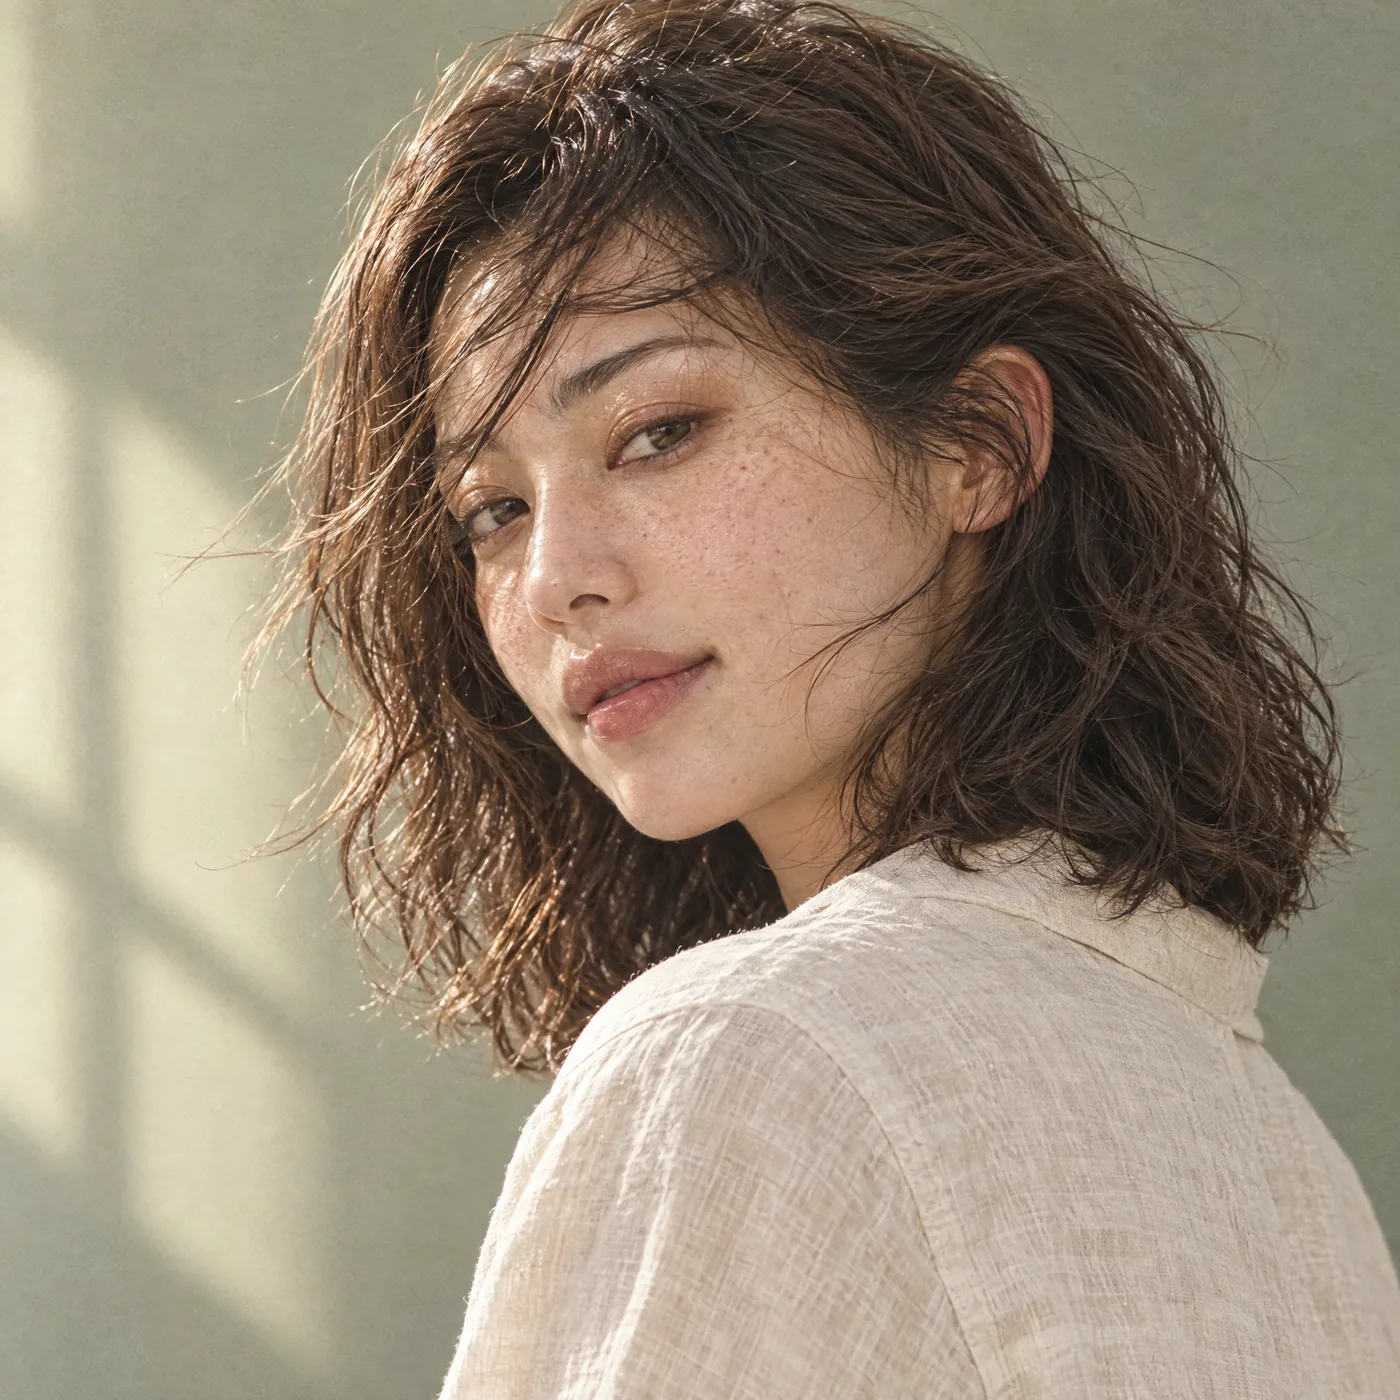
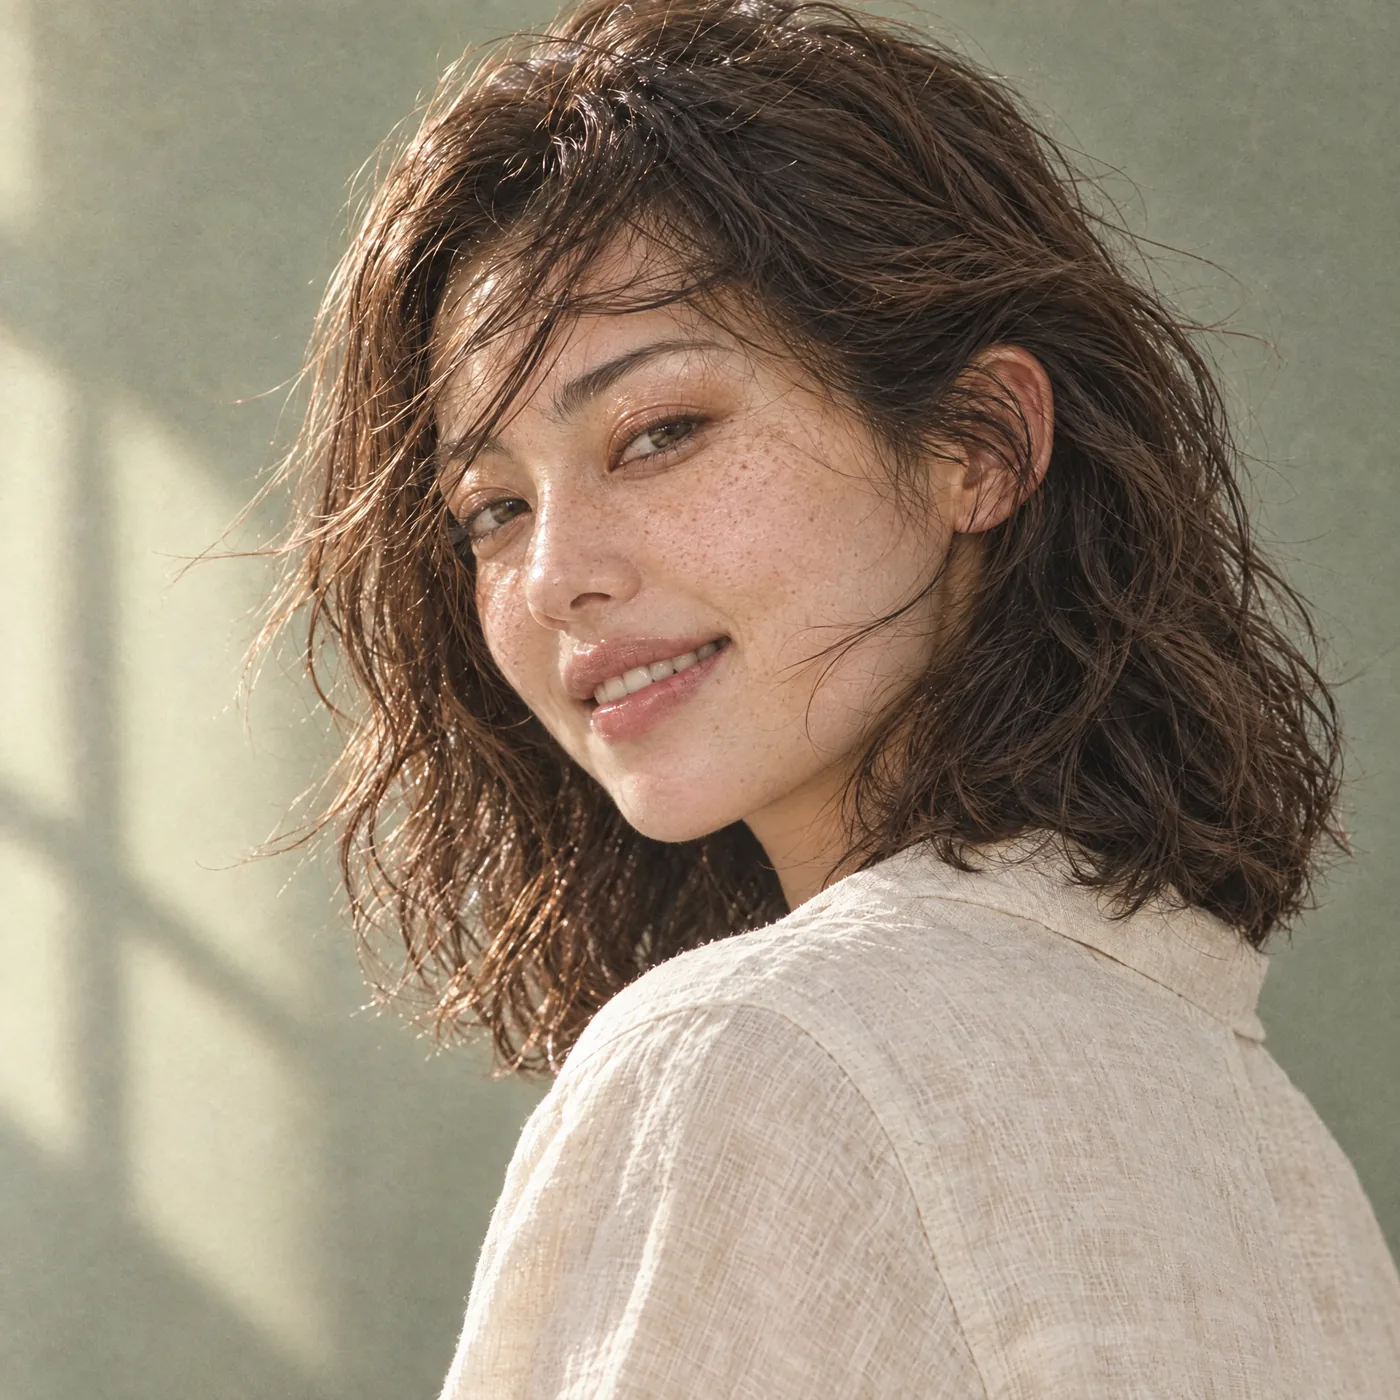
Add a nail close-up section and give the model a relaxed, warm expression
- New 'One drop on every nail' section: macro of a hand with a single
  clean drop falling onto the cuticle (EN/KO/JA copy)
- Hero cutout and over-the-shoulder portrait re-edited from cool/chic to
  a soft, relaxed smile; face, pose and outfit unchanged

Claude-Session: https://claude.ai/code/session_019wNfXHQ7e4JMNHAKsg49UT

diff --git a/kr/index.html b/kr/index.html
@@ -104,6 +104,16 @@ h1,h2,h3{margin:0;font-family:var(--sans);font-weight:400;line-height:1.2;letter
 .banner{margin:0;background:var(--night)}
 .banner img{width:100%;aspect-ratio:21/8;object-fit:cover;object-position:60% 40%}
 
+/* one drop — nail close-up */
+.drop{display:grid;grid-template-columns:1.35fr 1fr;gap:clamp(24px,4vw,64px);align-items:center;padding-block:clamp(16px,3vw,40px) clamp(40px,6vw,80px)}
+.drop img{width:100%;aspect-ratio:3/2;object-fit:cover;border-radius:18px}
+.drop-k{font-size:12px;font-weight:500;letter-spacing:.16em;text-transform:uppercase;color:var(--ink-soft);margin-bottom:12px}
+.drop h3{font-family:var(--display);font-weight:400;font-size:clamp(34px,3.8vw,54px);line-height:1;color:var(--olive);margin-bottom:16px}
+.drop p{font-size:16px;color:var(--ink-soft);max-width:26em}
+.drop .pill{margin-top:24px}
+:lang(ko) .drop-k,:lang(ja) .drop-k{letter-spacing:.02em}
+:lang(ko) .drop h3,:lang(ja) .drop h3{font-family:var(--sans);font-weight:500;font-size:clamp(26px,2.6vw,36px);letter-spacing:-.03em;line-height:1.3}
+
 /* checkerboard */
 .checker{padding-block:clamp(40px,6vw,80px)}
 .checker-grid{display:grid;grid-template-columns:1fr 1fr;border-radius:18px;overflow:hidden;background:var(--sage)}
@@ -247,6 +257,7 @@ footer{background:var(--night);color:#D8D4C8}
   .checker-grid .c2{order:4}
   .hero-meta span{display:none}
   .banner img{aspect-ratio:4/3}
+  .drop{grid-template-columns:1fr}
 }
 @media (max-width:420px){
   .facts{grid-template-columns:1fr}
@@ -472,6 +483,16 @@ if(!location.hash){window.scrollTo(0,0);addEventListener('load',()=>{window.scro
     </div>
   </section>
 
+  <section class="drop wrap" aria-labelledby="drop-h">
+    <img src="../images/nail-drop.webp" width="1600" height="1063" loading="lazy" alt="A drop of Glow Drop oil falling onto a nail from the glass dropper" data-i18n-alt="altDrop">
+    <div>
+      <p class="drop-k" data-i18n="dropK">For nails &amp; cuticles</p>
+      <h3 id="drop-h" data-i18n="dropT">One drop on every nail</h3>
+      <p data-i18n="dropD">Let a single drop fall right at the cuticle, then press it in. Cold-pressed olive and avocado sink in fast, leaving nails soft and glossy — never greasy.</p>
+      <a class="pill primary" href="#how" data-i18n="navCare">How to use</a>
+    </div>
+  </section>
+
   <section class="story" id="story" aria-labelledby="story-h">
     <div class="wrap story-grid">
       <div class="story-text">
@@ -655,7 +676,8 @@ if(!location.hash){window.scrollTo(0,0);addEventListener('load',()=>{window.scro
       chk1t:"한 방울, 꾹, 반짝", chk1d:"하루 한 방울이 손톱과 피부에 스며들어 내일까지 부드럽게 지켜 줍니다.",
       chk2t:"나만의 방식으로 힐링", chk2d:"아침이든 잠들기 전이든, 햇볕과 일에 지친 손을 위한 작은 쉼.",
       altModel:"리넨 셔츠를 입고 작은 글로우 드롭 병을 든 모델", altBanner:"나파 포도밭이 보이는 데이베드에서 쉬는 모델",
-      altEye:"어깨 너머로 돌아보는 모델", altCuticle:"햇살 드는 라운저에서 쉬는 모델"
+      altEye:"어깨 너머로 돌아보는 모델",
+      dropK:"손톱 &amp; 큐티클", dropT:"손톱마다 한 방울", dropD:"큐티클 위에 한 방울 똑 떨어뜨리고 지그시 눌러 주세요. 콜드프레스 올리브와 아보카도 오일이 빠르게 스며들어, 끈적임 없이 손톱을 부드럽고 윤기 있게 가꿉니다.", altDrop:"스포이트에서 손톱 위로 떨어지는 글로우 드롭 오일 한 방울", altCuticle:"햇살 드는 라운저에서 쉬는 모델"
     },
     ja: {
       announce:"世界中へお届け",
@@ -703,7 +725,8 @@ if(!location.hash){window.scrollTo(0,0);addEventListener('load',()=>{window.scro
       chk1t:"一滴、押して、輝く", chk1d:"1日1滴が爪と肌にとけこみ、明日までやわらかく守ります。",
       chk2t:"あなたらしく、癒す", chk2d:"朝でも寝る前でも。日差しや仕事で疲れた手のための、小さなひと休み。",
       altModel:"リネンシャツ姿で小さなGlow Dropを持つモデル", altBanner:"ナパのぶどう畑を望むデイベッドでくつろぐモデル",
-      altEye:"肩越しに振り返るモデル", altCuticle:"陽ざしの入るラウンジャーでくつろぐモデル"
+      altEye:"肩越しに振り返るモデル",
+      dropK:"爪 &amp; 甘皮", dropT:"爪に一滴ずつ", dropD:"甘皮の上に一滴落として、やさしく押し込むだけ。コールドプレスのオリーブとアボカドオイルがすっとなじみ、べたつかずに爪をやわらかくつややかに整えます。", altDrop:"スポイトから爪に落ちるGlow Dropオイルの一滴", altCuticle:"陽ざしの入るラウンジャーでくつろぐモデル"
     }
   };
   ['ko','ja'].forEach(function(l){ I18N[l].heroTitle = mk(I18N[l].heroTitle); I18N[l].storyTitle = mk(I18N[l].storyTitle); });

diff --git a/index.html b/index.html
@@ -102,6 +102,16 @@ h1,h2,h3{margin:0;font-family:var(--sans);font-weight:400;line-height:1.2;letter
 .banner{margin:0;background:var(--night)}
 .banner img{width:100%;aspect-ratio:21/8;object-fit:cover;object-position:60% 40%}
 
+/* one drop — nail close-up */
+.drop{display:grid;grid-template-columns:1.35fr 1fr;gap:clamp(24px,4vw,64px);align-items:center;padding-block:clamp(16px,3vw,40px) clamp(40px,6vw,80px)}
+.drop img{width:100%;aspect-ratio:3/2;object-fit:cover;border-radius:18px}
+.drop-k{font-size:12px;font-weight:500;letter-spacing:.16em;text-transform:uppercase;color:var(--ink-soft);margin-bottom:12px}
+.drop h3{font-family:var(--display);font-weight:400;font-size:clamp(34px,3.8vw,54px);line-height:1;color:var(--olive);margin-bottom:16px}
+.drop p{font-size:16px;color:var(--ink-soft);max-width:26em}
+.drop .pill{margin-top:24px}
+:lang(ko) .drop-k,:lang(ja) .drop-k{letter-spacing:.02em}
+:lang(ko) .drop h3,:lang(ja) .drop h3{font-family:var(--sans);font-weight:500;font-size:clamp(26px,2.6vw,36px);letter-spacing:-.03em;line-height:1.3}
+
 /* checkerboard */
 .checker{padding-block:clamp(40px,6vw,80px)}
 .checker-grid{display:grid;grid-template-columns:1fr 1fr;border-radius:18px;overflow:hidden;background:var(--sage)}
@@ -245,6 +255,7 @@ footer{background:var(--night);color:#D8D4C8}
   .checker-grid .c2{order:4}
   .hero-meta span{display:none}
   .banner img{aspect-ratio:4/3}
+  .drop{grid-template-columns:1fr}
 }
 @media (max-width:420px){
   .facts{grid-template-columns:1fr}
@@ -470,6 +481,16 @@ if(!location.hash){window.scrollTo(0,0);addEventListener('load',()=>{window.scro
     </div>
   </section>
 
+  <section class="drop wrap" aria-labelledby="drop-h">
+    <img src="images/nail-drop.webp" width="1600" height="1063" loading="lazy" alt="A drop of Glow Drop oil falling onto a nail from the glass dropper" data-i18n-alt="altDrop">
+    <div>
+      <p class="drop-k" data-i18n="dropK">For nails &amp; cuticles</p>
+      <h3 id="drop-h" data-i18n="dropT">One drop on every nail</h3>
+      <p data-i18n="dropD">Let a single drop fall right at the cuticle, then press it in. Cold-pressed olive and avocado sink in fast, leaving nails soft and glossy — never greasy.</p>
+      <a class="pill primary" href="#how" data-i18n="navCare">How to use</a>
+    </div>
+  </section>
+
   <section class="story" id="story" aria-labelledby="story-h">
     <div class="wrap story-grid">
       <div class="story-text">
@@ -651,7 +672,8 @@ if(!location.hash){window.scrollTo(0,0);addEventListener('load',()=>{window.scro
       chk1t:"한 방울, 꾹, 반짝", chk1d:"하루 한 방울이 손톱과 피부에 스며들어 내일까지 부드럽게 지켜 줍니다.",
       chk2t:"나만의 방식으로 힐링", chk2d:"아침이든 잠들기 전이든, 햇볕과 일에 지친 손을 위한 작은 쉼.",
       altModel:"리넨 셔츠를 입고 작은 글로우 드롭 병을 든 모델", altBanner:"나파 포도밭이 보이는 데이베드에서 쉬는 모델",
-      altEye:"어깨 너머로 돌아보는 모델", altCuticle:"햇살 드는 라운저에서 쉬는 모델"
+      altEye:"어깨 너머로 돌아보는 모델",
+      dropK:"손톱 &amp; 큐티클", dropT:"손톱마다 한 방울", dropD:"큐티클 위에 한 방울 똑 떨어뜨리고 지그시 눌러 주세요. 콜드프레스 올리브와 아보카도 오일이 빠르게 스며들어, 끈적임 없이 손톱을 부드럽고 윤기 있게 가꿉니다.", altDrop:"스포이트에서 손톱 위로 떨어지는 글로우 드롭 오일 한 방울", altCuticle:"햇살 드는 라운저에서 쉬는 모델"
     },
     ja: {
       announce:"世界中へお届け",
@@ -699,7 +721,8 @@ if(!location.hash){window.scrollTo(0,0);addEventListener('load',()=>{window.scro
       chk1t:"一滴、押して、輝く", chk1d:"1日1滴が爪と肌にとけこみ、明日までやわらかく守ります。",
       chk2t:"あなたらしく、癒す", chk2d:"朝でも寝る前でも。日差しや仕事で疲れた手のための、小さなひと休み。",
       altModel:"リネンシャツ姿で小さなGlow Dropを持つモデル", altBanner:"ナパのぶどう畑を望むデイベッドでくつろぐモデル",
-      altEye:"肩越しに振り返るモデル", altCuticle:"陽ざしの入るラウンジャーでくつろぐモデル"
+      altEye:"肩越しに振り返るモデル",
+      dropK:"爪 &amp; 甘皮", dropT:"爪に一滴ずつ", dropD:"甘皮の上に一滴落として、やさしく押し込むだけ。コールドプレスのオリーブとアボカドオイルがすっとなじみ、べたつかずに爪をやわらかくつややかに整えます。", altDrop:"スポイトから爪に落ちるGlow Dropオイルの一滴", altCuticle:"陽ざしの入るラウンジャーでくつろぐモデル"
     }
   };
   ['ko','ja'].forEach(function(l){ I18N[l].heroTitle = mk(I18N[l].heroTitle); I18N[l].storyTitle = mk(I18N[l].storyTitle); });

diff --git a/tools/build_kr.py b/tools/build_kr.py
@@ -39,7 +39,7 @@ rep('<meta name="description" content="Olive Skin Glow Drop — a healing daily 
     f'<link rel="alternate" hreflang="ko" href="{SITE}/kr/">')
 
 # kr/ 폴더에서 이미지·영상 경로가 맞도록
-for attr, n in (("src", 20), ("data-src", 4), ("poster", 1)):
+for attr, n in (("src", 21), ("data-src", 4), ("poster", 1)):
     rep(f' {attr}="images/', f' {attr}="../images/', n)
 
 rep('<script src="analytics.js" defer></script>', '<script src="../analytics.js" defer></script>')
